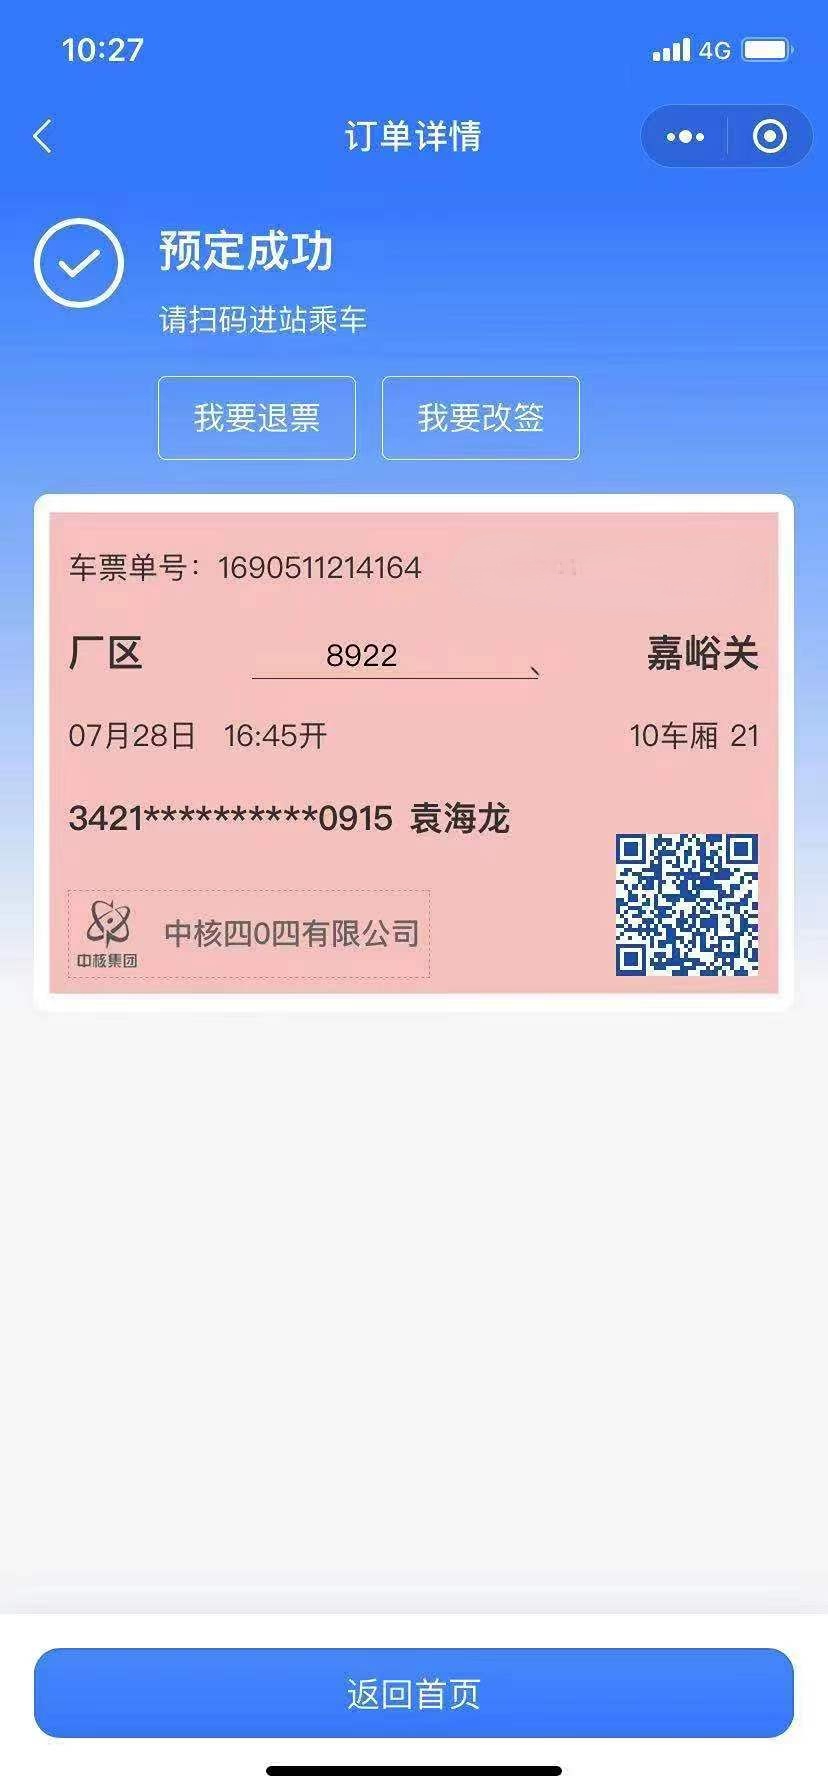
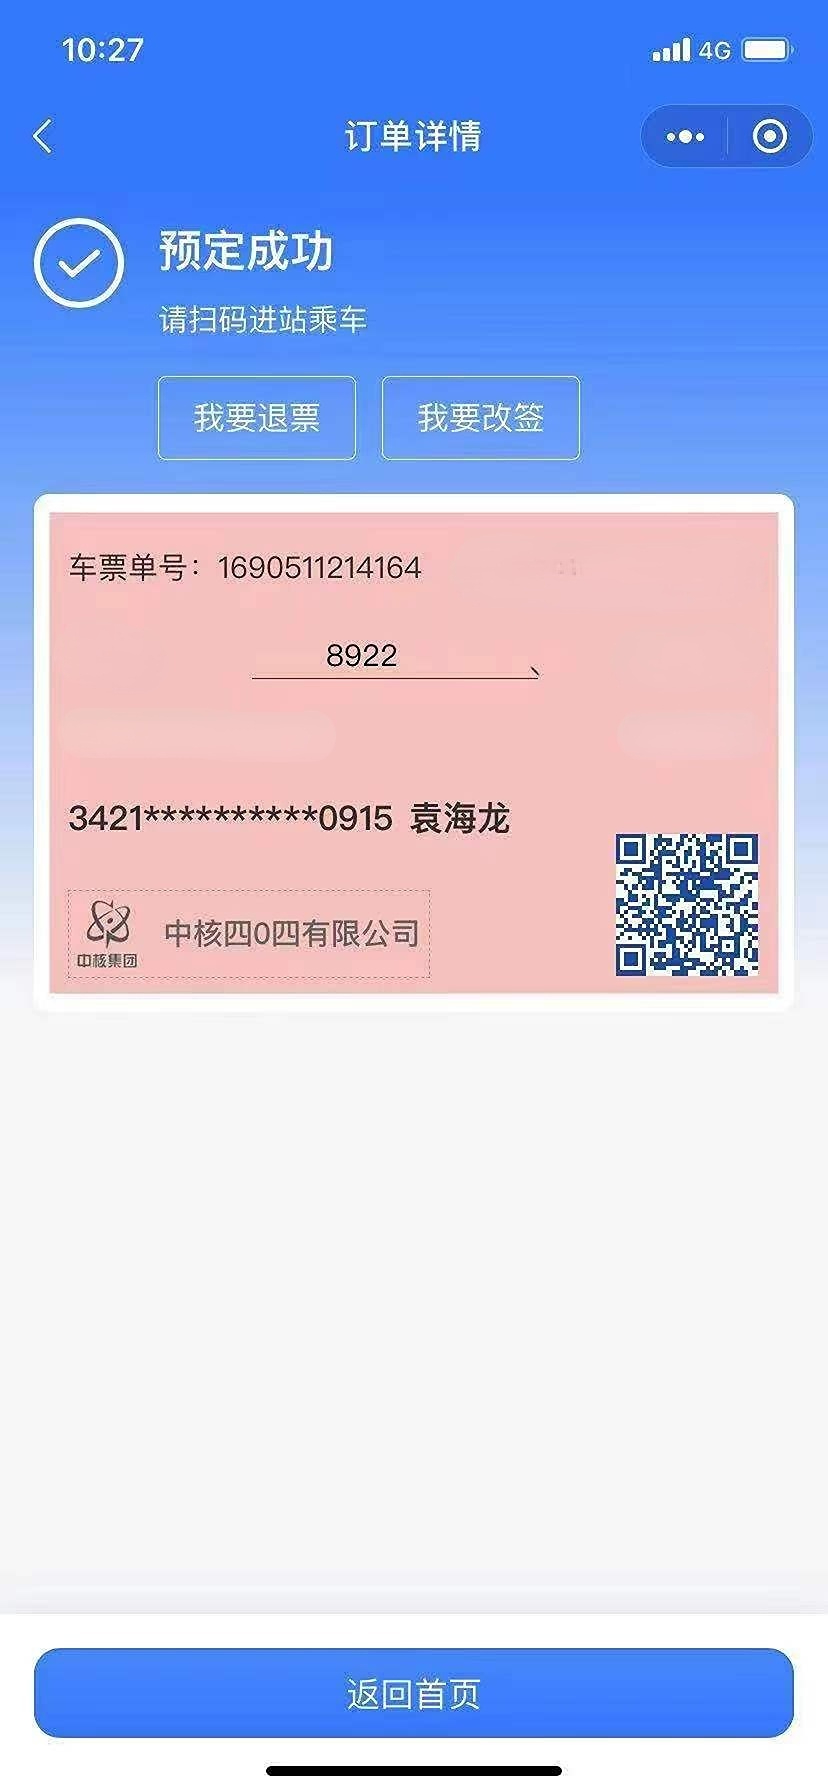
initial

diff --git a/index.html b/index.html
@@ -1,39 +1,73 @@
 <!DOCTYPE html>
 <html lang="en">
-<head>
-    <meta charset="UTF-8">
-    <meta name="viewport" content="width=device-width, initial-scale=1.0">
+  <head>
+    <meta charset="UTF-8" />
+    <meta name="viewport" content="width=device-width, initial-scale=1.0" />
     <title>Document</title>
     <style>
-        .container {
-            position: relative;
-        }
-        img {
-            display: inline-block;
-            width: 100%;
-            height: 100%;
-        }
-        .clock {
-            position: absolute;
-            top: 212px;
-            right: 30px;
-            font-weight: 500;
-            color: #9dbe99;
-            font-size: 12px;
-        }
+      .container {
+        position: relative;
+      }
+      img {
+        display: inline-block;
+        width: 100%;
+        height: 100%;
+      }
+      .clock {
+        position: absolute;
+        top: 212px;
+        right: 30px;
+        font-weight: 500;
+        color: #9dbe99;
+        font-size: 12px;
+      }
+
+      .from {
+        position: absolute;
+        top: 240px;
+        left: 30px;
+        font-size: 14px;
+        font-weight: 500;
+      }
+
+      .to {
+        position: absolute;
+        top: 240px;
+        right: 30px;
+        font-size: 14px;
+        font-weight: 500;
+      }
+
+      .info-date {
+        position: absolute;
+        top: 270px;
+        left: 30px;
+        font-size: 12px;
+      }
+
+      .info-chexiang {
+        position: absolute;
+        top: 270px;
+        right: 30px;
+        font-size: 12px;
+      }
     </style>
-</head>
-<body>
+  </head>
+  <body>
     <div class="container">
-        <img src="./bg.jpg" alt="">
-        <div class="clock"></div>
+      <img src="./bg.jpg" alt="" />
+      <div class="clock"></div>
+      <div class="from">嘉峪关</div>
+      <div class="to">厂区</div>
+      <div class="info-date">08月11号 07:50开</div>
+      <div class="info-chexiang">12车厢 21</div>
     </div>
     <script src="https://unpkg.com/dayjs@1.11.9/dayjs.min.js"></script>
     <script>
-        var dom = document.querySelector('.clock')
-        setInterval(() => {
-            dom.textContent = dayjs().format('MM月DD日 HH:mm:ss')
-        }, 1000)
+      var dom = document.querySelector(".clock");
+      setInterval(() => {
+        dom.textContent = dayjs().format("MM月DD日 HH:mm:ss");
+      }, 1000);
     </script>
-</body>
+  </body>
 </html>
